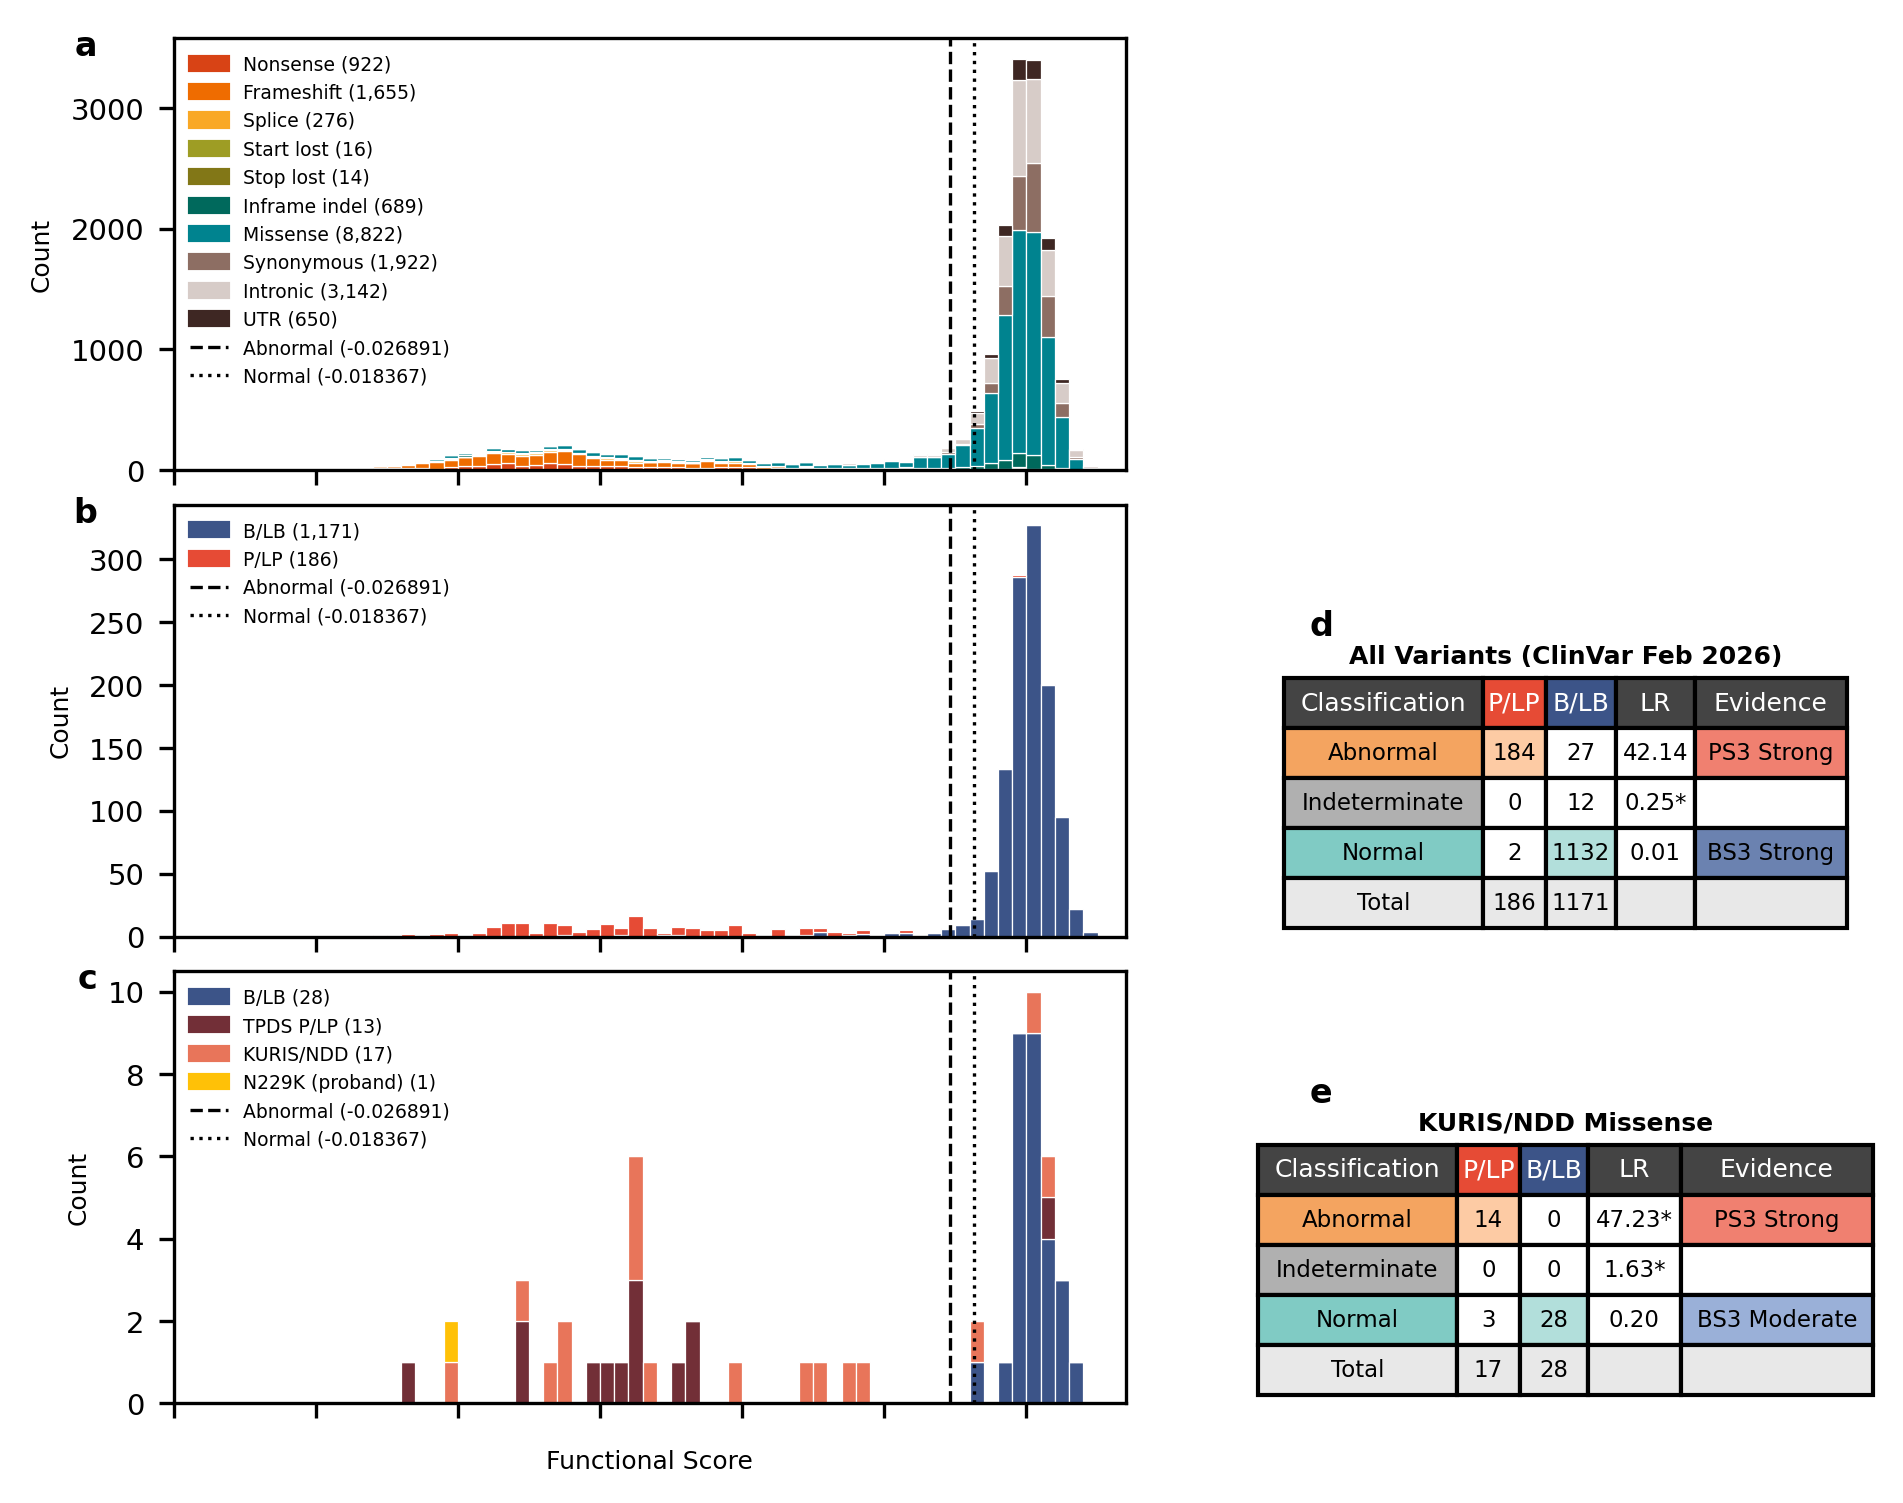
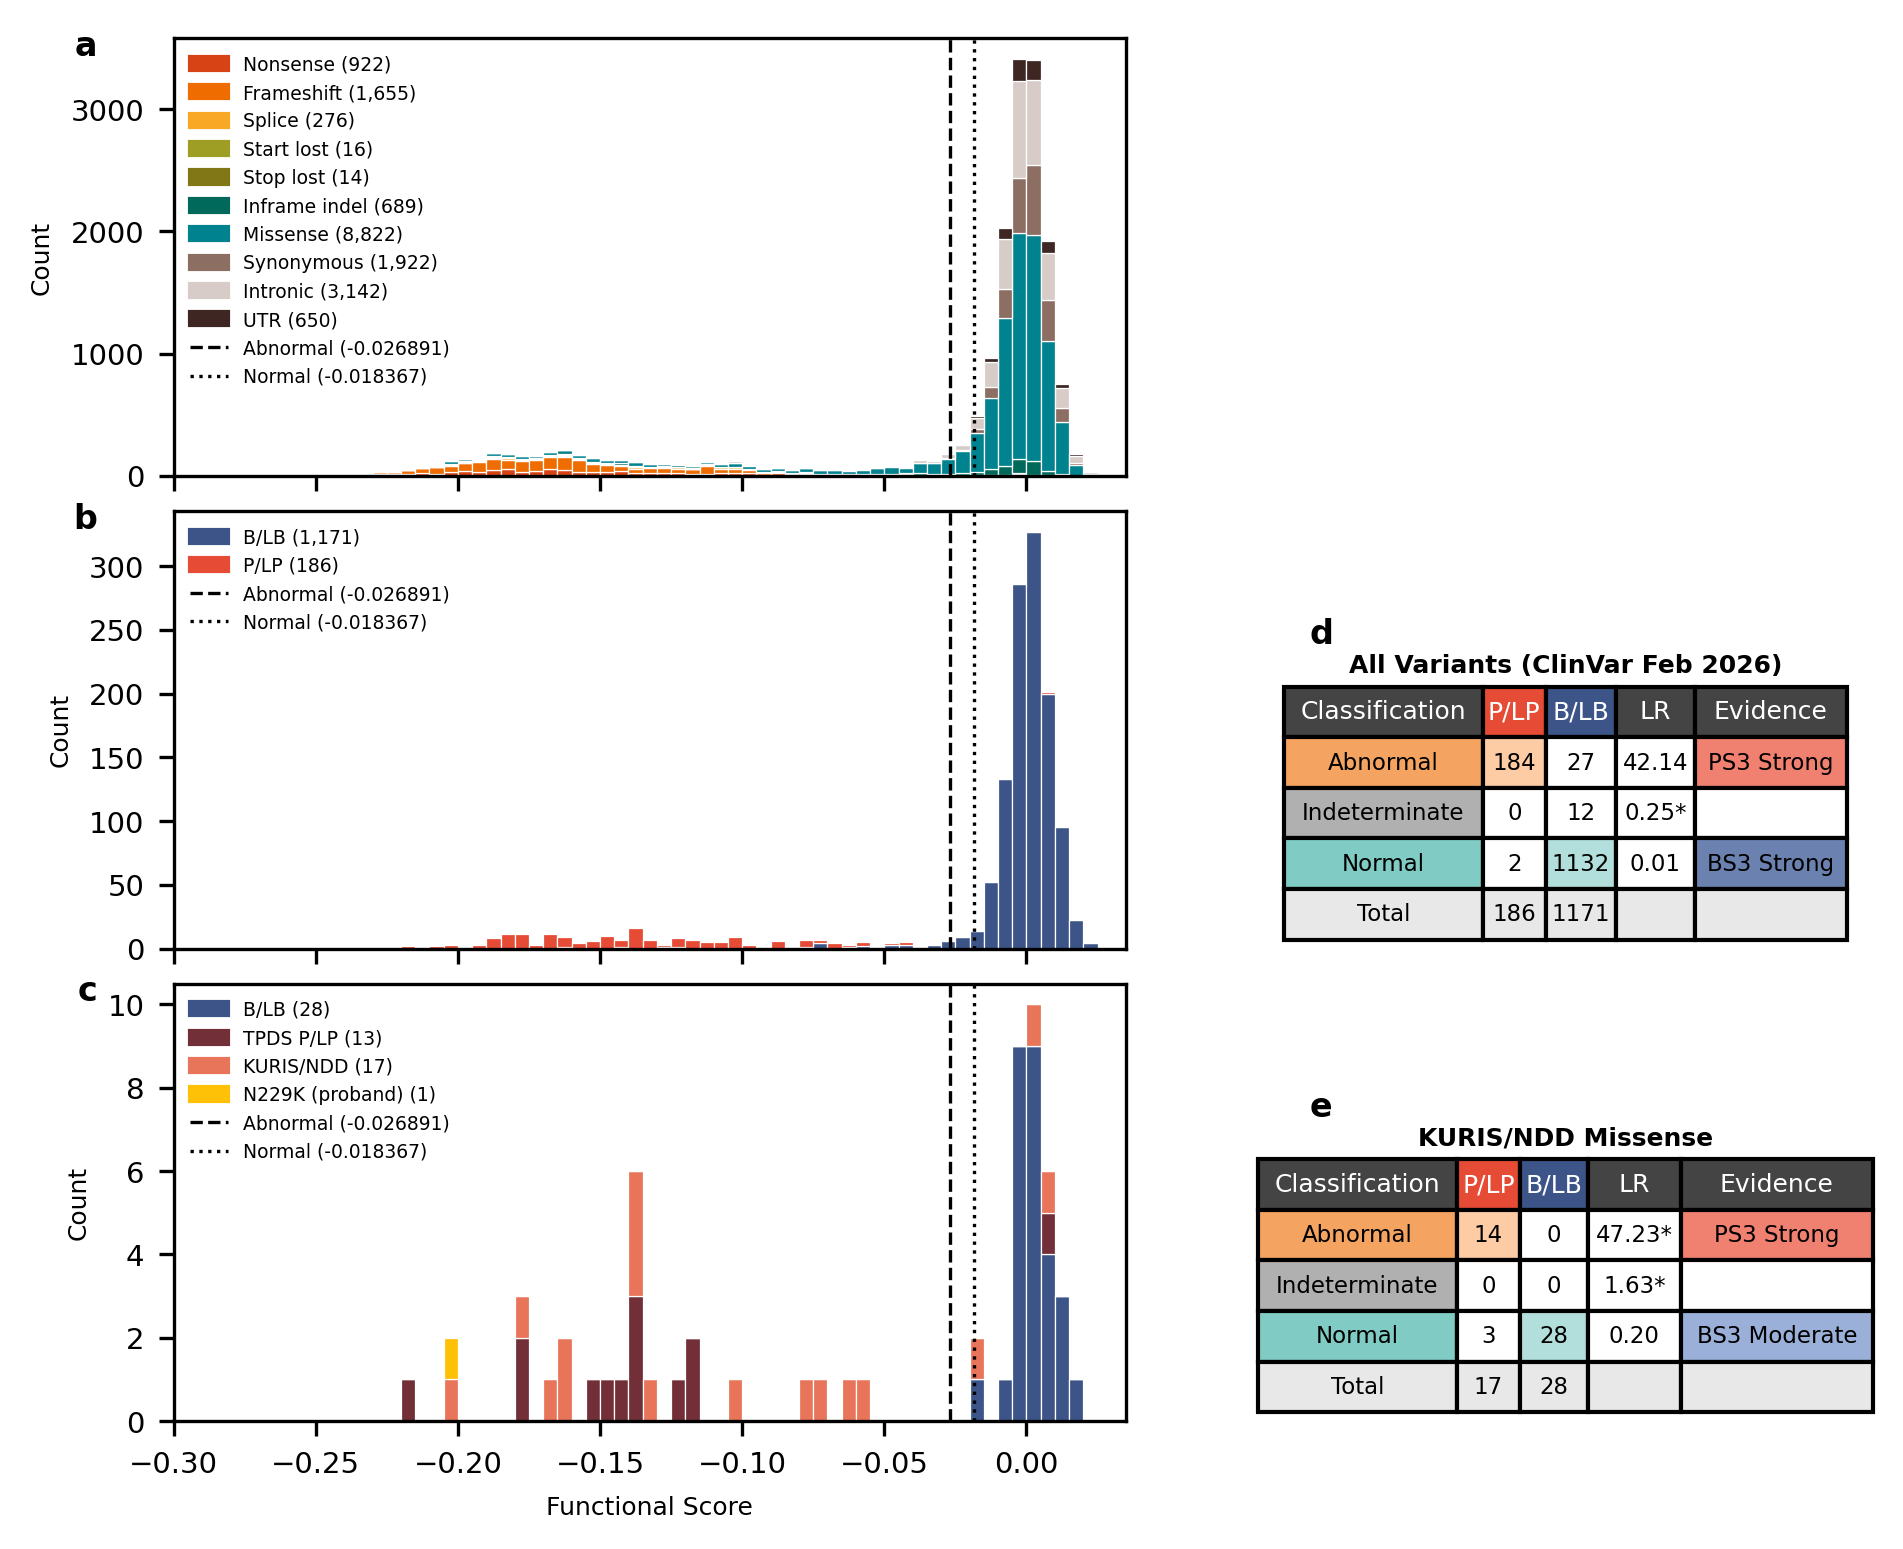
Fix Figure 2 bottom margin to show x-axis tick labels

diff --git a/scripts/make_figures.py b/scripts/make_figures.py
@@ -502,7 +502,7 @@ def make_figure2(sheets):
     plot_histogram(ax_a, sheets['Fig2a_Consequence_Hist'],
                    'Variant_Type', vtype_order, VARIANT_TYPE_COLORS,
                    show_xlabel=False)
-    ax_a.set_xticklabels([])
+    ax_a.tick_params(axis='x', labelbottom=False)
     ax_a.text(-0.08, 1.02, 'a', fontsize=8, fontweight='bold',
               transform=ax_a.transAxes, va='top', ha='right')
 
@@ -515,7 +515,7 @@ def make_figure2(sheets):
     plot_histogram(ax_b, sheets['Fig2b_ClinVar_PLP_BLB'],
                    'ClinVar_Class', cv_order, CLINVAR_2026_COLORS,
                    show_xlabel=False)
-    ax_b.set_xticklabels([])
+    ax_b.tick_params(axis='x', labelbottom=False)
     ax_b.text(-0.08, 1.02, 'b', fontsize=8, fontweight='bold',
               transform=ax_b.transAxes, va='top', ha='right')
 
@@ -533,6 +533,7 @@ def make_figure2(sheets):
     plot_histogram(ax_c, sheets['Fig2c_KURIS_Hist'],
                    'Category', p3_order, PANEL3_COLORS,
                    show_xlabel=True)
+    ax_c.tick_params(axis='x', labelbottom=True)
     ax_c.text(-0.08, 1.02, 'c', fontsize=8, fontweight='bold',
               transform=ax_c.transAxes, va='top', ha='right')
 
@@ -543,6 +544,8 @@ def make_figure2(sheets):
     plot_contingency_table(ax_e, stats_kuris, 'KURIS/NDD Missense')
     ax_e.text(0.0, 0.68, 'e', fontsize=8, fontweight='bold',
               transform=ax_e.transAxes, va='bottom', ha='left')
+
+    fig.subplots_adjust(bottom=0.10)
 
     base = os.path.join(FIGURES_DIR, 'Figure2')
     plt.savefig(f'{base}.png', dpi=300, bbox_inches='tight')
